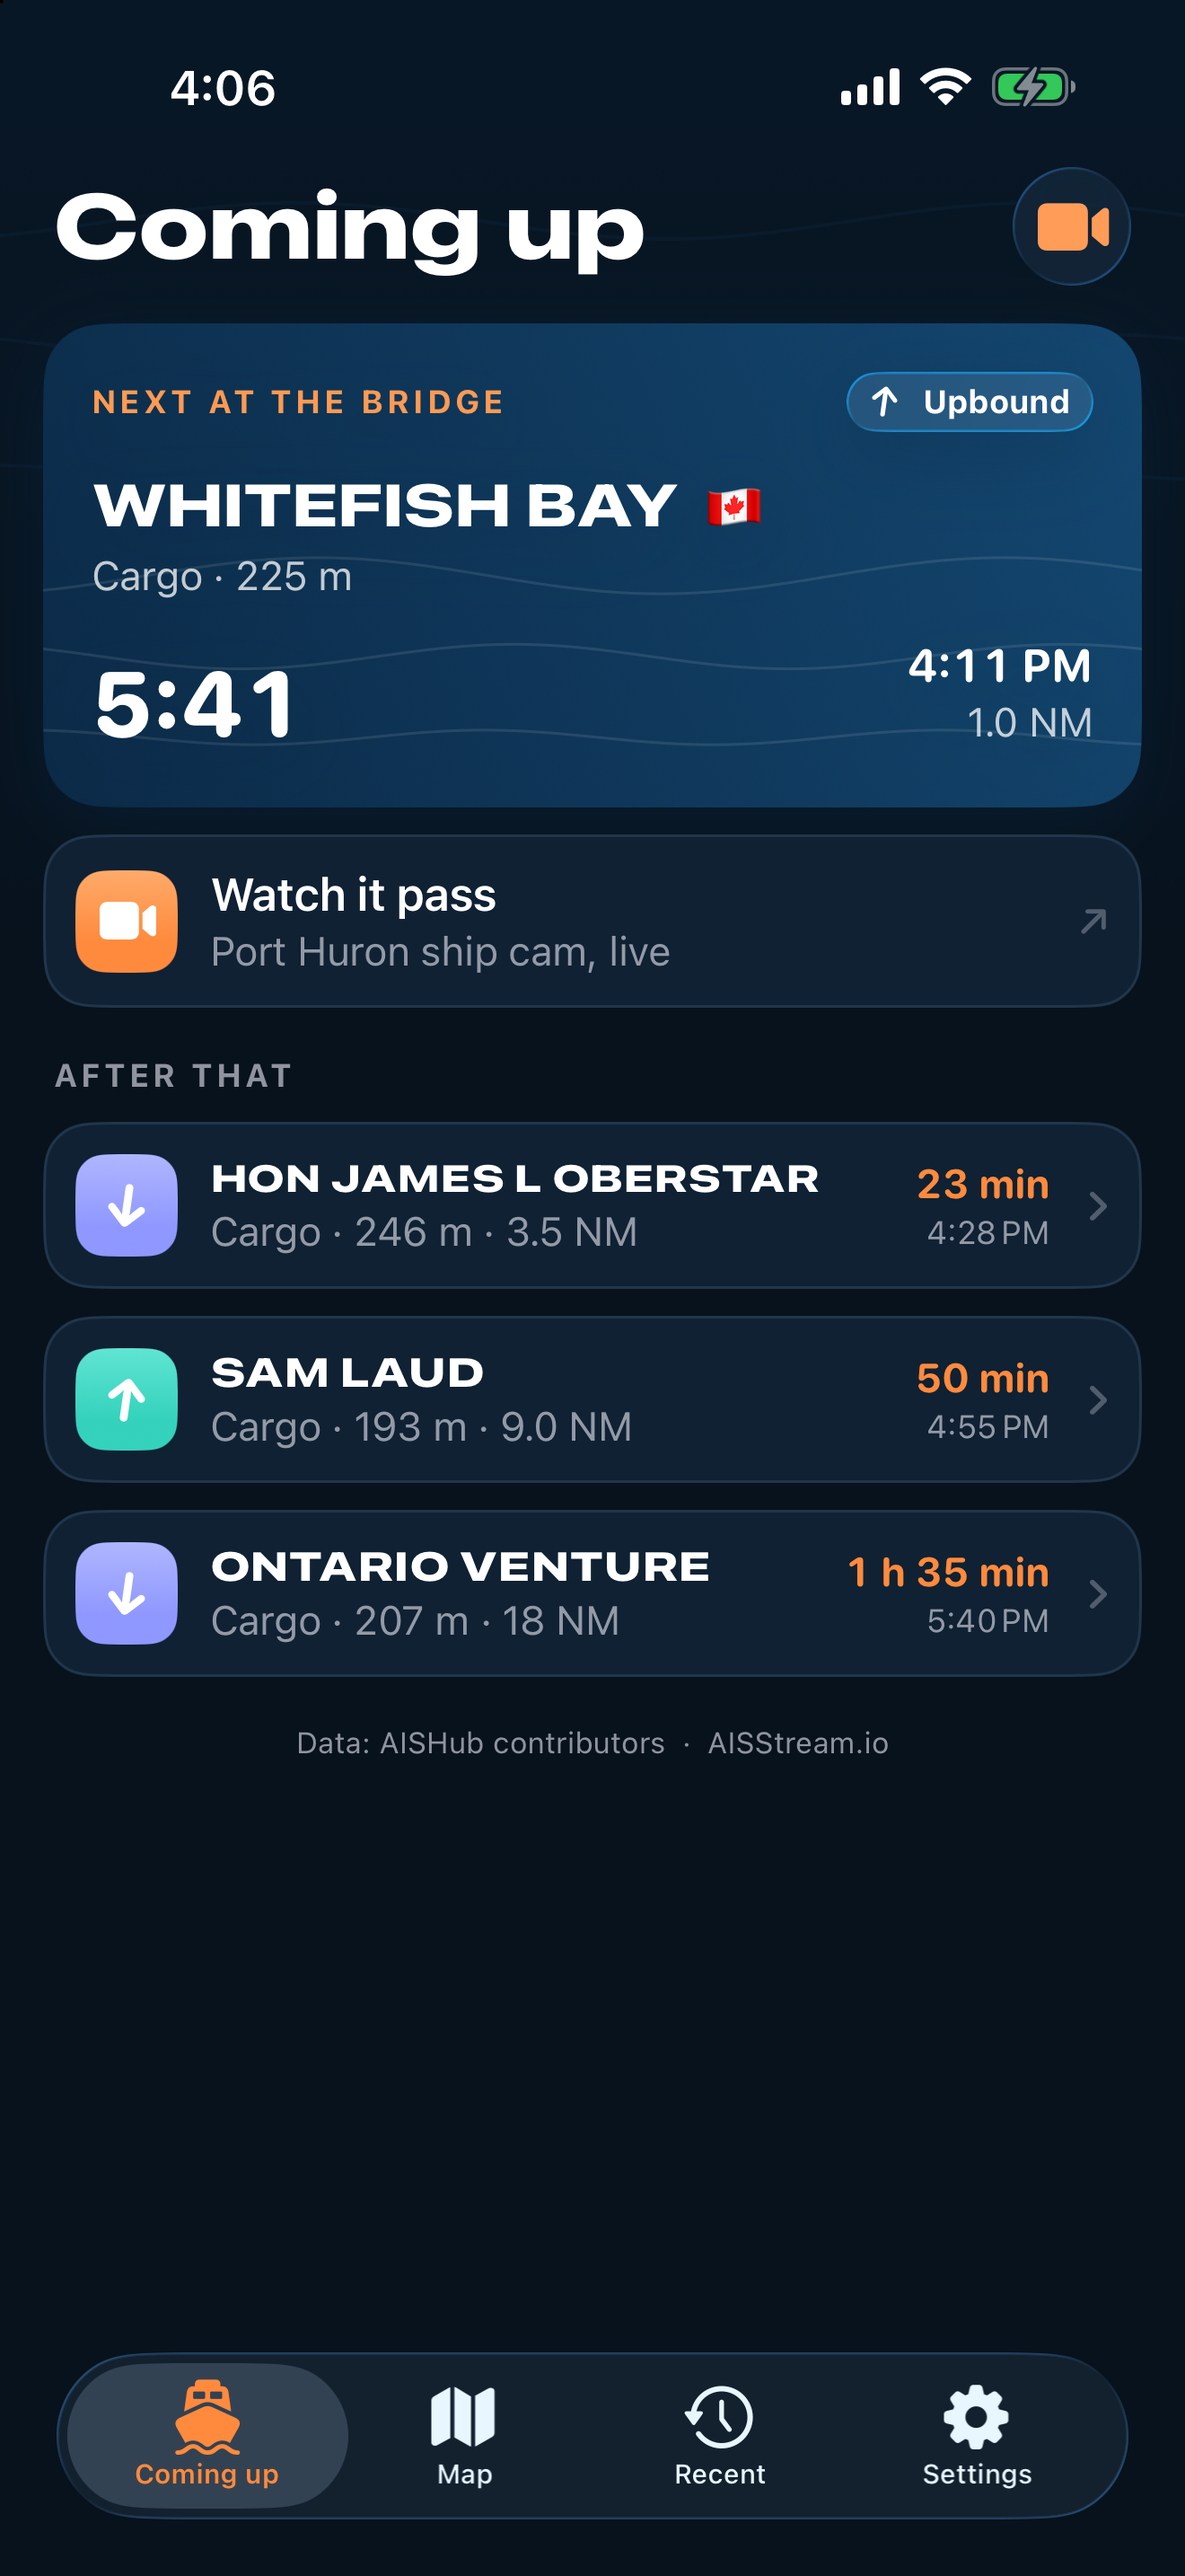
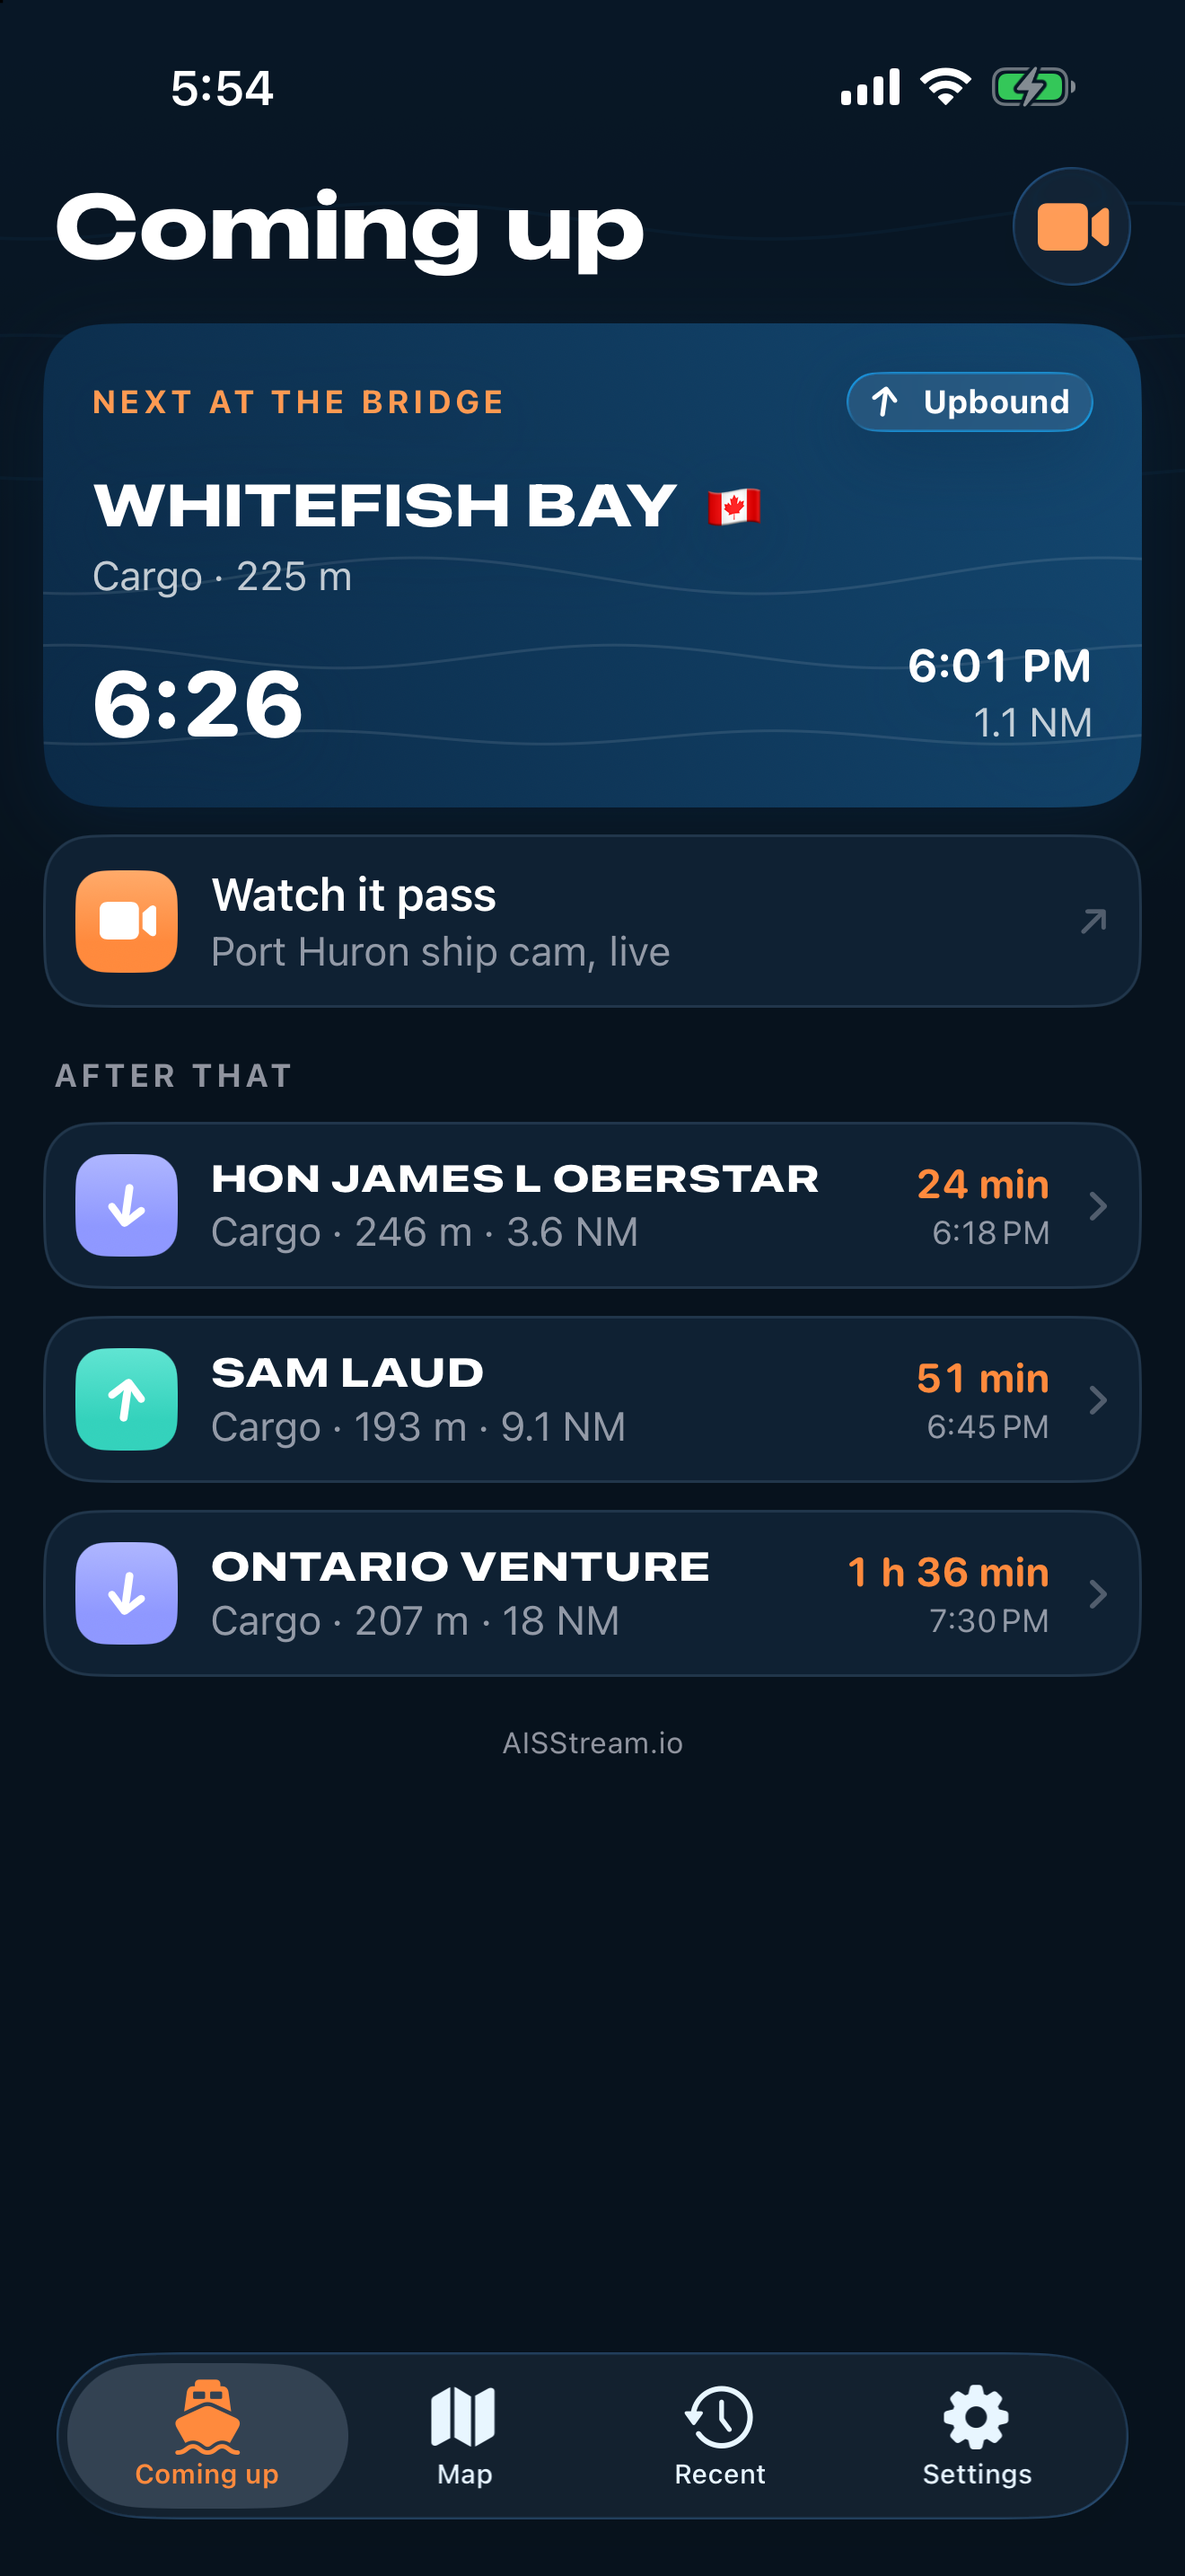
App Store header image: new screenshot, photo background (#134)
* App Store header image: retaken with the new Coming up screenshot

The old one showed the Passed tab and no Map tab.

* App Store header image: faded photo of a laker under the bridge

Replaces the drawn bridge and ship with a photo of the ALGOSTEEL passing
under the Blue Water Bridge, faded into the background to the right of the
phone.

* Store screenshots and header: only AISStream in the credits

Coming up (light and dark) and the next ship's page retaken now that the
server no longer uses AISHub; the header image and the app page's copies
follow.

* Header image: credit the photo (CC BY 2.0)

The background photo is kristy's (Kristymp on Flickr), from Wikimedia
Commons under CC BY 2.0, which asks for a credit, a link to the licence and
a note of changes. A short credit sits in the image's corner; CREDITS.md
has the source, licence link and what was changed.

diff --git a/ios/AppStore/creative/universal.html b/ios/AppStore/creative/universal.html
@@ -10,50 +10,30 @@
       linear-gradient(180deg,#0B2A47 0%,#0A3C61 55%,#07121D 100%);
     font-family:-apple-system,"SF Pro Display",system-ui,sans-serif;color:#fff;position:relative;
   }
-  .scene{position:absolute;left:0;bottom:0;width:5244px;height:1400px}
+  /* The photo, faded into the blues: kept faint so the words and phone lead */
+  .photo{position:absolute;top:0;bottom:0;left:2700px;right:0;
+    background:url(bridge-photo.jpg) -560px center/auto 100% no-repeat;
+    filter:grayscale(.3) blur(3px) brightness(.95);opacity:.42;
+    -webkit-mask-image:linear-gradient(90deg,transparent 0%,#000 35%);mask-image:linear-gradient(90deg,transparent 0%,#000 35%)}
+  .tint{position:absolute;inset:0;
+    background:linear-gradient(90deg,rgba(7,24,41,.92) 0%,rgba(10,60,97,.62) 42%,rgba(10,60,97,.25) 70%,rgba(7,18,29,.35) 100%),
+      linear-gradient(180deg,rgba(11,42,71,.35) 0%,rgba(7,18,29,.7) 100%)}
   .copy{position:absolute;left:420px;top:880px;width:1900px}
   .eyebrow{font-size:96px;font-weight:700;letter-spacing:.18em;color:#FF9A52;text-transform:uppercase;margin-bottom:60px}
   h1{margin:0;font-size:250px;line-height:1.0;font-weight:900;font-stretch:expanded;font-variation-settings:"wdth" 150;letter-spacing:-.01em}
   .icon{width:300px;height:300px;border-radius:66px;margin-bottom:90px;box-shadow:0 30px 80px rgba(0,0,0,.35)}
+  .credit{position:absolute;right:120px;bottom:90px;font-size:44px;color:rgba(227,235,242,.42);letter-spacing:.01em}
   .phone{position:absolute;left:2640px;top:190px;width:1180px;height:2564px;border-radius:190px;background:#111;padding:34px;box-sizing:border-box;
     box-shadow:0 80px 200px rgba(0,0,0,.55),0 0 0 6px #2b3540}
   .phone img{width:100%;height:100%;border-radius:158px;display:block}
 </style></head><body>
-<svg class="scene" viewBox="0 0 5244 1400" preserveAspectRatio="none">
-  <!-- river -->
-  <path d="M0 900 C 1200 860, 2600 940, 5244 880 L5244 1400 L0 1400Z" fill="#06223A"/>
-  <g fill="none" stroke="#1A6A9A" stroke-opacity=".35" stroke-width="10">
-    <path d="M0 1010 C 400 980, 800 1040, 1200 1010 S 2000 980, 2400 1010"/>
-    <path d="M2900 1080 C 3300 1050, 3700 1110, 4100 1080 S 4900 1050, 5244 1080"/>
-    <path d="M200 1180 C 600 1150, 1000 1210, 1400 1180 S 2200 1150, 2600 1180"/>
-  </g>
-  <!-- Blue Water Bridge: two arched truss spans -->
-  <g stroke="#8FB8DE" stroke-opacity=".55" fill="none" stroke-width="14">
-    <path d="M3500 560 L5244 560"/>
-    <path d="M3700 560 Q 4050 230 4400 560"/>
-    <path d="M4400 560 Q 4750 230 5100 560"/>
-    <g stroke-width="7">
-      <path d="M3790 560 L3790 470 M3880 560 L3880 400 M3970 560 L3970 350 M4060 560 L4060 330 M4140 560 L4140 340 M4230 560 L4230 380 M4310 560 L4310 450"/>
-      <path d="M4490 560 L4490 470 M4580 560 L4580 400 M4670 560 L4670 350 M4760 560 L4760 330 M4840 560 L4840 340 M4930 560 L4930 380 M5010 560 L5010 450"/>
-    </g>
-    <path d="M3700 560 L3700 890 M4400 560 L4400 890 M5100 560 L5100 890" stroke-width="24"/>
-  </g>
-  <!-- laker: pilothouse forward, stack aft -->
-  <g transform="translate(4020 800) scale(0.7)">
-    <path d="M0 120 L1300 120 L1360 40 L-40 40 Z" fill="#C9461B"/>
-    <path d="M-40 40 L1360 40 L1350 -10 L-30 -10 Z" fill="#E9EEF2"/>
-    <rect x="1130" y="-150" width="190" height="140" fill="#F4F7FA"/>
-    <rect x="1150" y="-200" width="150" height="50" fill="#F4F7FA"/>
-    <rect x="1160" y="-130" width="140" height="28" fill="#0A3C61"/>
-    <rect x="40" y="-120" width="230" height="110" fill="#F4F7FA"/>
-    <rect x="110" y="-230" width="70" height="110" fill="#5B7C99"/>
-    <rect x="110" y="-230" width="70" height="26" fill="#FF8A3D"/>
-  </g>
-</svg>
+<div class="photo"></div>
+<div class="tint"></div>
 <div class="copy">
   <img class="icon" src="../../Brand/icon.png">
   <div class="eyebrow">Blue Water Bridge</div>
   <h1>Never miss<br>a laker</h1>
 </div>
 <div class="phone"><img src="../screenshots/1-coming-up.png"></div>
+<div class="credit">Photo: kristy (Kristymp), CC BY 2.0, cropped and tinted</div>
 </body></html>

diff --git a/ios/AppStore/creative/CREDITS.md b/ios/AppStore/creative/CREDITS.md
@@ -1,0 +1,8 @@
+# Credits
+
+`bridge-photo.jpg` (the background of `universal-16x9.png`): "Algosteel passes under the
+Blue Water Bridges" by kristy ([Kristymp on Flickr](https://www.flickr.com/people/28914176@N08)),
+17 June 2011, from [Wikimedia Commons](https://commons.wikimedia.org/wiki/File:Algosteel_passes_under_the_Blue_Water_Bridges.jpg),
+licensed [CC BY 2.0](https://creativecommons.org/licenses/by/2.0/). Changed: cropped, blurred,
+desaturated and tinted blue, and faded into the background. The image carries a short credit
+in its corner, as the licence asks.
